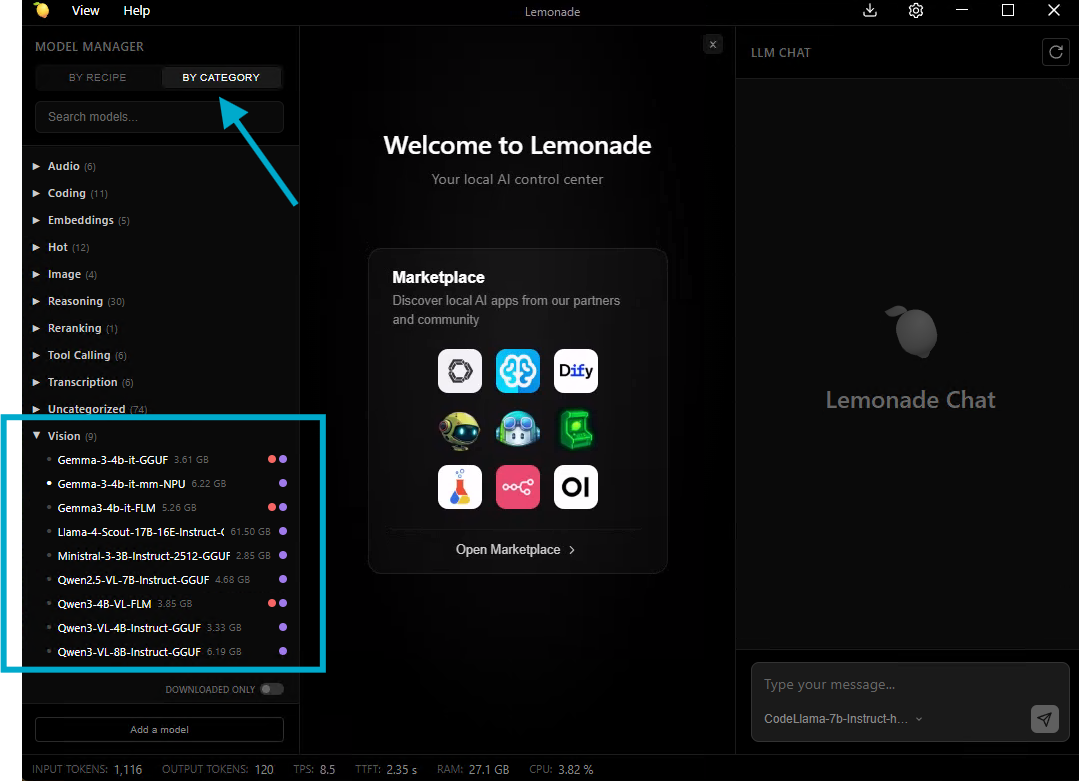
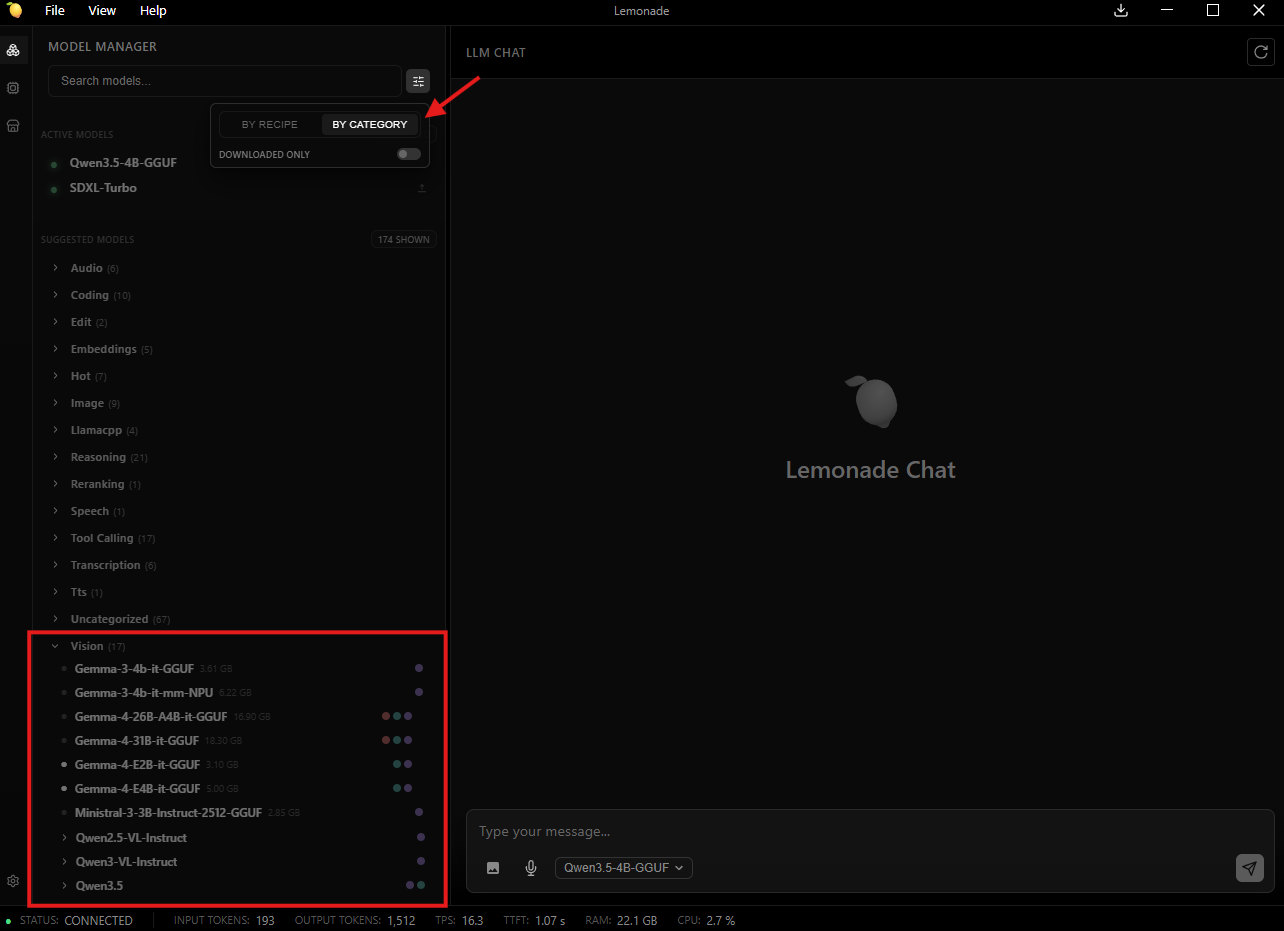
Updating Lemonade image in the Open WebUI playbook

diff --git a/playbooks/supplemental/open-webui-chat/README.md b/playbooks/supplemental/open-webui-chat/README.md
@@ -590,7 +590,7 @@ This validates that Open WebUI can send requests to Lemonade using the OpenAI-co
 
 This requires a model that supports image input (a Vision or Multimodal model).
 
-1. Select a vision-capable model (example: `Qwen3.5-4B-GGUF`, or any model labeled for Vision in Lemonade)
+1. Click the filter icon, select “By Category,” then choose a model from the **Vision** section (e.g., `Qwen3.5-4B-GGUF`)
 <p align="center">
   <img src="assets/lemonade_vlms.png" alt="Lemonade VLM's" width="600"/>
 </p>
